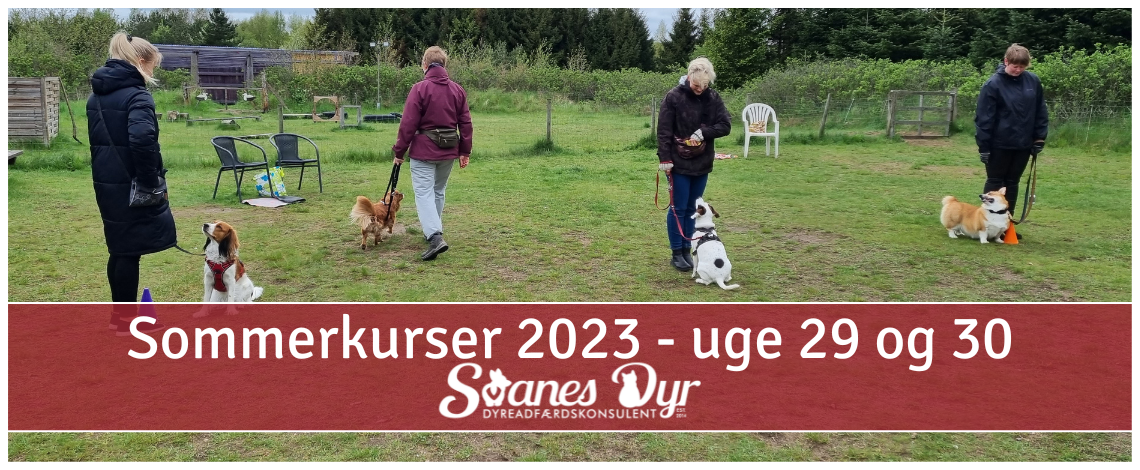
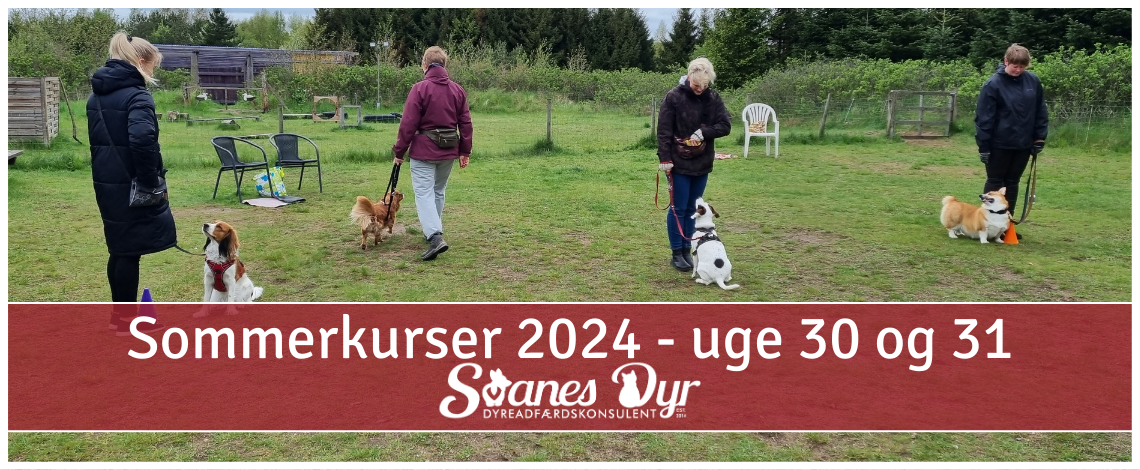
sommerkurser opdateret

diff --git a/src/pages/DogSummer.js b/src/pages/DogSummer.js
@@ -26,12 +26,13 @@ import {
   TricksOne,
   CoolThree,
   NailClipSix,
-  CoolAgainOne,
-  PuppySeven,
+  // CoolAgainOne,
+  // PuppySeven,
   PuppyContinuedOne,
   TricksTwo,
   NWGary,
-  // MonaRally,
+  PuppySix,
+  CoolSix,
 } from '../assets';
 import '../components/table/TableCss.css';
 
@@ -43,12 +44,12 @@ const Spotliste = [
   'Alle Spot-kurser afholdes af Dyreadfærdskonsulent Sabrina Svane',
 ];
 
-const Flerdagesliste = [
-  'Hvert kursus varer op til 4 dage',
-  'Hver dag mødes vi i op til 90 minutter',
-  'Der serveres både lunt og koldt at drikke, som kakao, kaffe, te og juice som er med i prisen',
-  'Kurserne er for alle hunde i alle aldre',
-];
+// const Flerdagesliste = [
+//   'Hvert kursus varer op til 4 dage',
+//   'Hver dag mødes vi i op til 90 minutter',
+//   'Der serveres både lunt og koldt at drikke, som kakao, kaffe, te og juice som er med i prisen',
+//   'Kurserne er for alle hunde i alle aldre',
+// ];
 
 const PlayTypes = [
   'Små racer: Max skulderhøjde 30 cm.',
@@ -70,21 +71,21 @@ const DogSummer = () => (
         <Column widthPercentage="100%">
           <Image src={OnlineCoverSummer} />
           <br />
-          <TitleCenter text="Til dig der ønsker at tilbringe sommerdagene i uge 29 eller 30 sammen med din dejlige snude" />
+          <TitleCenter text="Til dig der ønsker at tilbringe sommerdagene i uge 30 eller 31 sammen med din dejlige snude" />
           <TextCenter>
             Kom med og brug nogle af de solrige sommerdage i Horsens i godt selskab med andre
             snuder. Tag både din bedre halvdel og børnene med til en hyggelig stund - alle er
             velkomne!
           </TextCenter>
           <TextCenter bold>
-            Der udbydes igen i år de populære spot-kurser og som noget nyt flerdages temakurser!
+            Der udbydes igen i år de populære spot-kurser!
           </TextCenter>
           <TextCenter>Fælles for alle SPOT-kurser er:
           <TextListMark texts={Spotliste} />
           </TextCenter>
-          <TextCenter>Fælles for alle FLERDAGES-kurser er:
+          {/* <TextCenter>Fælles for alle FLERDAGES-kurser er:
           <TextListMark texts={Flerdagesliste} />
-          </TextCenter>
+          </TextCenter> */}
           <TextCenter>
             Alle sommerens kurser foregår på træningspladsen Sorthøjvej 40, 8700 Horsens.
           </TextCenter>
@@ -141,9 +142,9 @@ const DogSummer = () => (
               <TextList texts={PlayRoom} />
             </Text>
               <Text>
-                <b>Deltagelse pr. snude: 175,- kr.</b>
+                <b>Deltagelse pr. snude: 125,- kr.</b>
                 <br />
-                uanset antal tobenede der er med
+                for 60 minutters legestue, uanset antal tobenede der er med
               </Text>
             </TextContainer>
           </FlexedRow>
@@ -253,6 +254,37 @@ const DogSummer = () => (
         </Column>
       </Row>
 
+      {/* HILSE PÆNT */}
+      <Row>
+        <Column widthPercentage="100%">
+          <TitleCenter text="Hilse pænt" />
+          <FlexedRow>
+            <Image src={CoolSix} width="300px" height="200px" />
+            <TextContainer>
+              <Text>
+                <b>Fokus på at øve ikke-hoppe-op og hilse roligt</b>
+                <br />
+                Til dig der har en ivrig hund, som bare eeeelsker at hilse på andre.
+              </Text>
+              <Text>
+                Vi gennemgår teknikker til at lære hunden at blive på jorden med alle 4 poter, når der skal hilses på mennesker. 
+                Derudover kigger vi også på, hvordan vi tillærer hunden at hilse roligt på andre hunde - uden at bruse fremad med stram line.
+                Du vil gå fra dagen med gode teknikker til at lære din hund at finde roen i forbindelse med social kontakt med andre.
+              </Text>
+              <Text>
+                <b>Deltagelse pr. snude: 245,- kr.</b>
+                <br />
+                uanset antal tobenede der er med
+              </Text>
+              <Text>Max 5 snuder pr. hold.</Text>
+            </TextContainer>
+          </FlexedRow>
+          <br />
+          <Text bold>Tilmelding til Hilse pænt:</Text>
+          <EasyMeList src="https://ezme.io/x/x1S/WvkC" />
+        </Column>
+      </Row>
+
       {/* HÅNDTERING */}
       <Row>
         <Column widthPercentage="100%">
@@ -345,16 +377,73 @@ const DogSummer = () => (
           <EasyMeList src="https://ezme.io/x/x1S/WvkC" />
         </Column>
       </Row>
-      <br />
-      <br />
+
+      {/* HVERDAGSAKTIVERING */}
       <Row>
         <Column widthPercentage="100%">
-          <LPHeadlineWalk text="Udbud af sommerens FLERDAGES-kurser" />
+          <TitleCenter text="Inspiration til hverdagsaktivering" />
+          <FlexedRow>
+            <Image src={PuppySix} width="300px" height="200px" />
+            <TextContainer>
+              <Text>
+                <b>Få velstimulerende opgaver der giver en glad og træt hund</b>
+                <br />
+                Inspiration til hverdagens aktiviteter, der kan trætte din hund godt i hovedet og undgå den finder på unoder.
+                Vi kigger på aktivering, som i kan være fælles om, der oveni styrker jeres samarbejde.
+                Ikke mindst gennemgår vi aktiveringsopgaver til de dage hvor det skal gå hurtigt, hvor hunden kan underholde sig selv mens du får klaret andre gøremål.
+              </Text>
+              <Text>
+                <b>Deltagelse pr. snude: 245,- kr.</b>
+                <br />
+                uanset antal tobenede der er med
+              </Text>
+              <Text>Max 5 snuder pr. hold.</Text>
+            </TextContainer>
+          </FlexedRow>
+          <br />
+          <Text bold>Tilmelding til Inspiration til hverdagsaktivering:</Text>
+          <EasyMeList src="https://ezme.io/x/x1S/WvkC" />
         </Column>
       </Row>
 
-      {/* REAKTIV TIL RO */}
+      {/* NOSE WORK */}
       <Row>
+        <Column widthPercentage="100%">
+          <TitleCenter text="Nose Work Momentsøg" />
+          <FlexedRow>
+            <Image src={NWGary} width="300px" height="200px" />
+            <TextContainer>
+              <Text>
+                <b>Til hunden der selvsikkert søger på lavendelduft</b>
+                <br />
+                Vi gennemgår de fire momenter fra klasse 1; køretøjssøg, beholdersøg, indendørssøg og udendørssøg.
+                Det primære fokus vil være succesoplevelser og hygge for hunden, samt ejers lineføring og markeringsadfærd hos hunden.
+                Interesserede spørgsmål til konkurrenceregler mv. besvares hjertens gerne.
+              </Text>
+              <Text>
+                <b>Deltagelse pr. snude: 245,- kr.</b>
+                <br />
+                uanset antal tobenede der er med
+              </Text>
+              <Text>Max 5 snuder pr. hold.</Text>
+            </TextContainer>
+          </FlexedRow>
+          <br />
+          <Text bold>Tilmelding til Nose Work Momentsøg:</Text>
+          <EasyMeList src="https://ezme.io/x/x1S/WvkC" />
+        </Column>
+      </Row>
+
+      <br />
+      <br />
+      {/* <Row>
+        <Column widthPercentage="100%">
+          <LPHeadlineWalk text="Udbud af sommerens FLERDAGES-kurser" />
+        </Column>
+      </Row> */}
+
+      {/* REAKTIV TIL RO */}
+      {/* <Row>
         <Column widthPercentage="100%">
           <TitleCenter text="Fra Reaktiv til Ro" />
           <FlexedRow>
@@ -379,7 +468,7 @@ const DogSummer = () => (
                 Kurset strækker sig over 4 dage med op til 60 minutters undervisning med hundene i spil hver dag. 
                 Derefter har vi 30 minutter til spørgsmål og opfølgning, hvor hundene hviler i bilerne. Kurset henvender sig til hunde i alle aldre. 
               </Text>
-            </TextContainer>
+            </TextContainer> */}
             {/* <TextContainer>
               <Text>
                 <b>Få kyndig vejledning i at lære din hund at lystre i nye miljøer</b>
@@ -403,16 +492,16 @@ const DogSummer = () => (
                 <i>Lunden</i>, 8700 Horsens med gratis parkering ved siden af Horsens Kunstmuseum
               </Text>
             </TextContainer> */}
-          </FlexedRow>
+          {/* </FlexedRow>
           <br />
           <Text bold>Tilmelding til Fra Reaktiv til RO:</Text>
           <EasyMeList src="https://ezme.io/x/x1S/WvWW" />
         </Column>
-      </Row>
+      </Row> */}
 
       
       {/* INTENSIV HVALPEKURSUS */}
-      <Row>
+      {/* <Row>
         <Column widthPercentage="100%">
           <TitleCenter text="Intensivt Hvalpehold" />
           <FlexedRow>
@@ -440,11 +529,11 @@ const DogSummer = () => (
           <Text bold>Tilmelding til Intensivt Hvalpehold:</Text>
           <EasyMeList src="https://ezme.io/x/x1S/WvWR" />
         </Column>
-      </Row>
+      </Row> */}
 
 
       {/* NOSE WORK MED ANJA */}
-      <Row>
+      {/* <Row>
         <Column widthPercentage="100%">
           <TitleCenter text="Nose Work med Anja Nielsen" />
           <FlexedRow>
@@ -485,7 +574,7 @@ const DogSummer = () => (
           <Text bold>Tilmelding til Nose Work for øvede:</Text>
           <EasyMeList src="https://ezme.io/x/x1S/WvWr" />
         </Column>
-      </Row>
+      </Row> */}
 
 
       {/* RALLY MED MONA */}

diff --git a/src/pages/DogEmpower.js b/src/pages/DogEmpower.js
@@ -16,7 +16,7 @@ import {
   Image,
   StyledLink,
   ContactPopUp,
-  // EasyMeList,
+  EasyMeList,
 } from '../components';
 import Responsive from '../components/layout/Responsive';
 import DogMenu from '../components/menu/DogMenu';
@@ -96,10 +96,10 @@ const DogEmpower = () => (
           <Text>i at få en selvsikker og kreativ hund, som synes al træning med dig er FEDT.</Text>
           <Text italic>Bemærk betaling er bindende og beløb refunderes ikke.</Text>
           <br />
-          {/* <Title text="Kommende hold:" />
+          <Title text="Kommende hold:" />
           <EasyMeList src="https://ezme.io/x/x1S/WXZW" />
-          <br /> */}
-          <Title color="#872f35" text="Næste holdstart er juni 2024, da jeg er på efteruddannelse" />
+          <br />
+          <Title color="#872f35" text="Næste holdstart er september 2024" />
           <Title text="Ønsker du en plads? Så smid mig en mail og jeg noterer dig straks på ventelisten:" />
           {/* <Text>
             Oplever du holdene er fyldt op, eller søger du holdstart på et andet tidspunkt skriver

diff --git a/src/components/meta/MetaDogSummer.js b/src/components/meta/MetaDogSummer.js
@@ -23,10 +23,10 @@ const MetaDogSummer = ({ title, description, keywords }) => (
 );
 
 const defaultTitle =
-  'Sommerferietræning Horsens | Uge 29 og 30 | Dyreadfærdskonsulent | Svanes Dyr ';
+  'Sommerferietræning Horsens | Dyreadfærdskonsulent | Svanes Dyr ';
 const defaultDescription = 'Svanes Dyr - Hundetræning i sommerferien i Horsens';
 const defaultKeywords = `Sommerferie hund, sommerferietræning hund, hundetræning sommer, hundetræning sommerferie, familievenlig hundetræning, familie hundetræning,
-  sommerdage hund, barn og hund, sommer barn hund, nose work sommer, rally sommer, nose work sommertræning, rally sommertræning, hundelegestue horsens, hundelegestue`;
+  sommerdage hund, barn og hund, sommer barn hund, nose work sommer, nose work sommertræning, hundelegestue horsens, hundelegestue, ikke hoppe op, hilse pænt hund, gåtur hund, gå pænt hund, ikke trække hund, trækker i snoren,`;
 MetaDogSummer.propTypes = {
   title: PropTypes.string,
   description: PropTypes.string,
